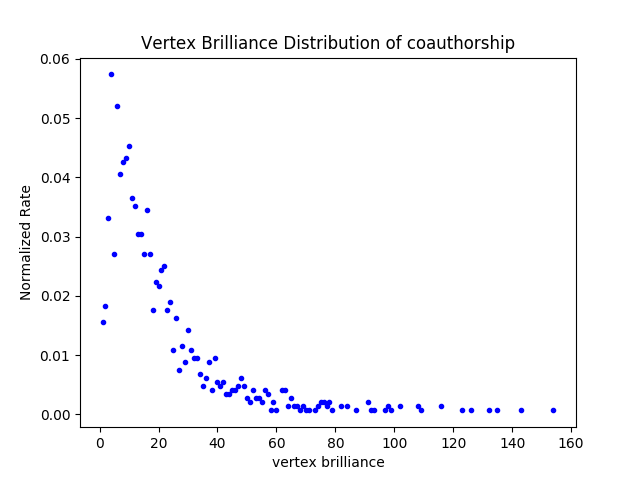
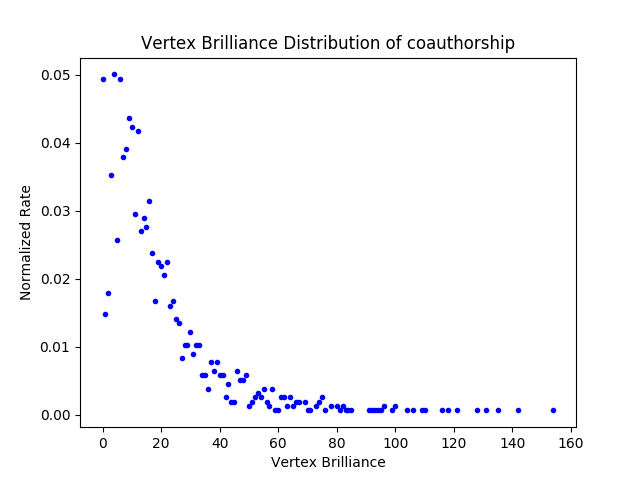
included empty nodes to the coauthorship graph / added average normalized distributions code

diff --git a/q2-vertex-brilliance.py b/q2-vertex-brilliance.py
@@ -111,7 +111,7 @@ def make_pa_graph(total_nodes, num_nodes):
             PA_graph[v].add(u)
             PA_graph[u].add(v)
             repeated_nodes += [v,u]
-
+    print('repeated edges for complete graph', repeated_nodes.sort())
     for v in range(num_nodes, total_nodes):
         for dummy_idx in range(num_nodes):
             node = random.choice(repeated_nodes)
@@ -131,6 +131,7 @@ def vertex_brilliance(graph, source):
     kstar = {}
     for v in graph[source]:
         kstar[v] = 0
+    if not kstar.values(): return 0
     while True:
         for v in kstar:
             for u in graph[v]:
@@ -248,6 +249,22 @@ def normalized_degree_distribution(graph, num_nodes):
     return normalized_dist
 
 
+def average_normalized_distribution(distributions):
+    """finds the average distribution of a list of distributions"""
+    cumulative_dist = {}
+
+    for dist in distributions:
+        for deg in dist:
+            if deg in cumulative_dist:
+                cumulative_dist[deg] += dist[deg]
+            else:
+                cumulative_dist[deg] = dist[deg]
+    average_dist = {}
+    for deg in cumulative_dist:
+        average_dist[deg] = cumulative_dist[deg] / len(distributions)
+    return average_dist
+
+
 def create_degree_distribution_plot(degree_distribution, plot_file_name, plot_name):
     # create arrays for plotting
     xdata = []
@@ -272,11 +289,11 @@ def create_degree_distribution_plot(degree_distribution, plot_file_name, plot_na
 # print(vertex_brilliance_distribution(graph))
 
 
-# vertices_dict, coauthorship_graph = load_graph("coauthorship.txt")
-# vertex_brilliance_distribution_coauthorship = normalized_vertex_brilliance_distribution(coauthorship_graph,
-# len(coauthorship_graph.keys()))
-# create_vertex_brilliance_distribution_plot(vertex_brilliance_distribution_coauthorship,
-# 'coauthorship-vertex-brilliance','coauthorship')
+vertices_dict, coauthorship_graph = load_graph("coauthorship.txt")
+vertex_brilliance_distribution_coauthorship = normalized_vertex_brilliance_distribution(coauthorship_graph,
+                                                                                            len(coauthorship_graph.keys()))
+create_vertex_brilliance_distribution_plot(vertex_brilliance_distribution_coauthorship,
+                                                'coauthorship-vertex-brilliance','coauthorship')
 #
 
 # n = 1559
@@ -300,14 +317,44 @@ def create_degree_distribution_plot(degree_distribution, plot_file_name, plot_na
 # TODO find the right m and k so that the number of nodes is 1559 or close and p and q so that the number of edges
 # is close to 43617
 
-m = 60
-k = 26
-p = 0.2
-q = 0.03
+# (60,26,0.22,0.03), (39,40,0.17,0.03), (120,13,0.26,0.04) give almost the same numbers of nodes and edges as coauthorhip graph
 
-ring_group_graph = make_ring_group_graph(m, k, p, q)
-ring_group_graph_vb = normalized_vertex_brilliance_distribution(ring_group_graph, m * k)
-create_vertex_brilliance_distribution_plot(ring_group_graph_vb,
-                                           'ring_group_graph-' + str(m) + '-' + str(k) + '-'
-                                           + str(p) + '-' + str(q) + '-brilliance',
-                                           'Ring Group Graph')
+# m = 120
+# k = 13
+# p = 0.26
+# q = 0.04
+#
+# t = 100
+#
+# degree_distributions = []
+# brilliance_distributions = []
+#
+# for i in range(t):
+#     print(i)
+#     ring_group_graph = make_ring_group_graph(m, k, p, q)
+#     degree_distributions += [normalized_degree_distribution(ring_group_graph, m * k)]
+#     brilliance_distributions += [normalized_vertex_brilliance_distribution(ring_group_graph, m * k)]
+# ring_group_graph_dd = average_normalized_distribution(degree_distributions)
+# create_degree_distribution_plot(ring_group_graph_dd,
+#                                            'ring_group_graph-' + str(m) + '-' + str(k) + '-'
+#                                            + str(p) + '-' + str(q) + '-degree',
+#                                            'Ring Group Graph')
+# ring_group_graph_vb = average_normalized_distribution(brilliance_distributions)
+# create_vertex_brilliance_distribution_plot(ring_group_graph_vb,
+#                                            'ring_group_graph-' + str(m) + '-' + str(k) + '-'
+#                                            + str(p) + '-' + str(q) + '-brilliance',
+#                                            'Ring Group Graph')
+
+# ring_group_graph = make_ring_group_graph(m, k, p, q)
+# ring_group_graph = make_ring_group_graph(k, m, p, q)
+
+# ring_group_graph_dd = normalized_degree_distribution(ring_group_graph, m * k)
+# create_degree_distribution_plot(ring_group_graph_dd,
+#                                            'ring_group_graph-' + str(k) + '-' + str(m) + '-'
+#                                            + str(p) + '-' + str(q) + '-degree',
+#                                            'Ring Group Graph')
+# ring_group_graph_vb = normalized_vertex_brilliance_distribution(ring_group_graph, k * m)
+# create_vertex_brilliance_distribution_plot(ring_group_graph_vb,
+#                                            'ring_group_graph-' + str(k) + '-' + str(m) + '-'
+#                                            + str(p) + '-' + str(q) + '-brilliance',
+#                                            'Ring Group Graph')
